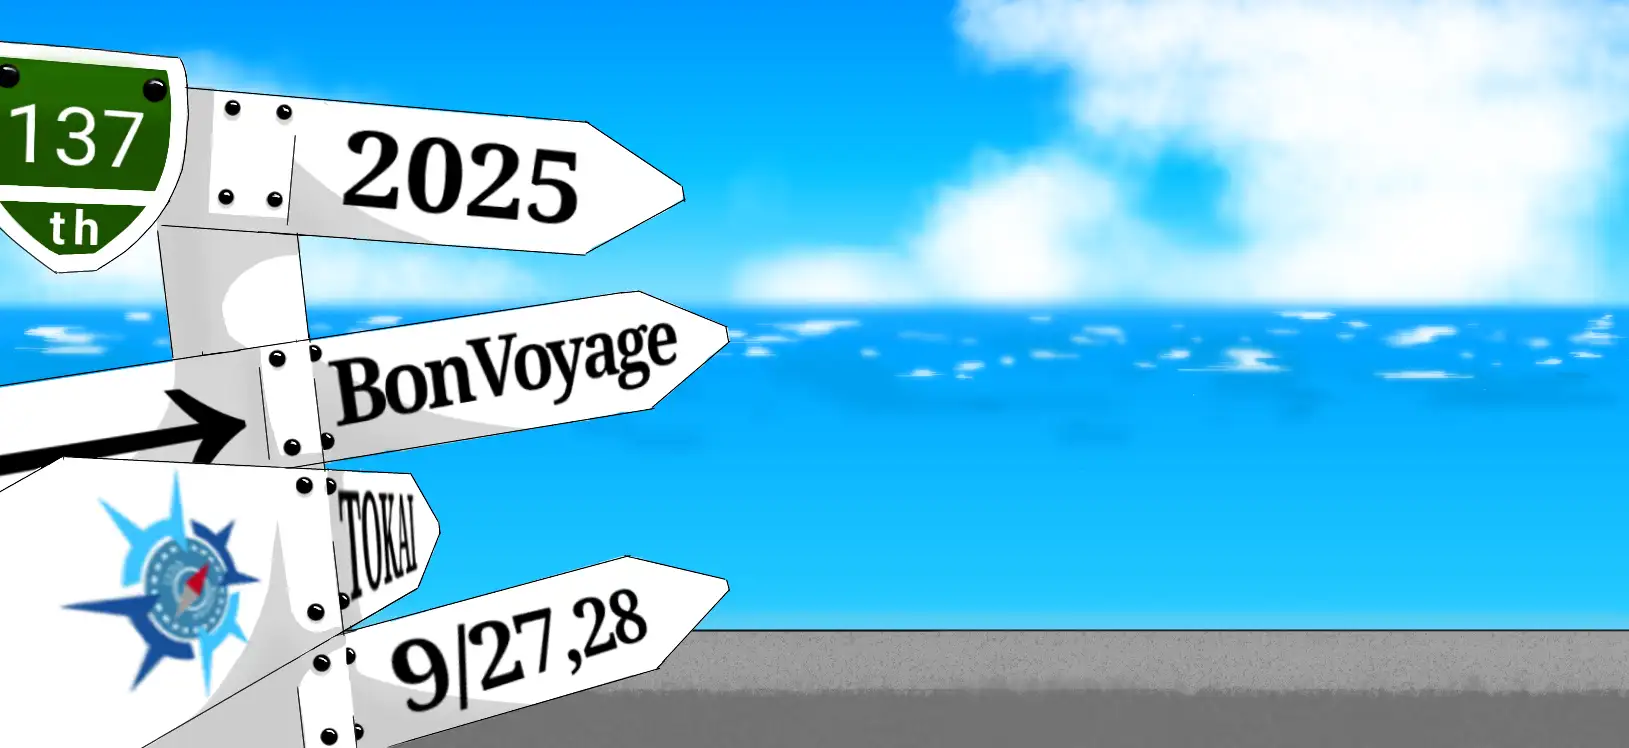
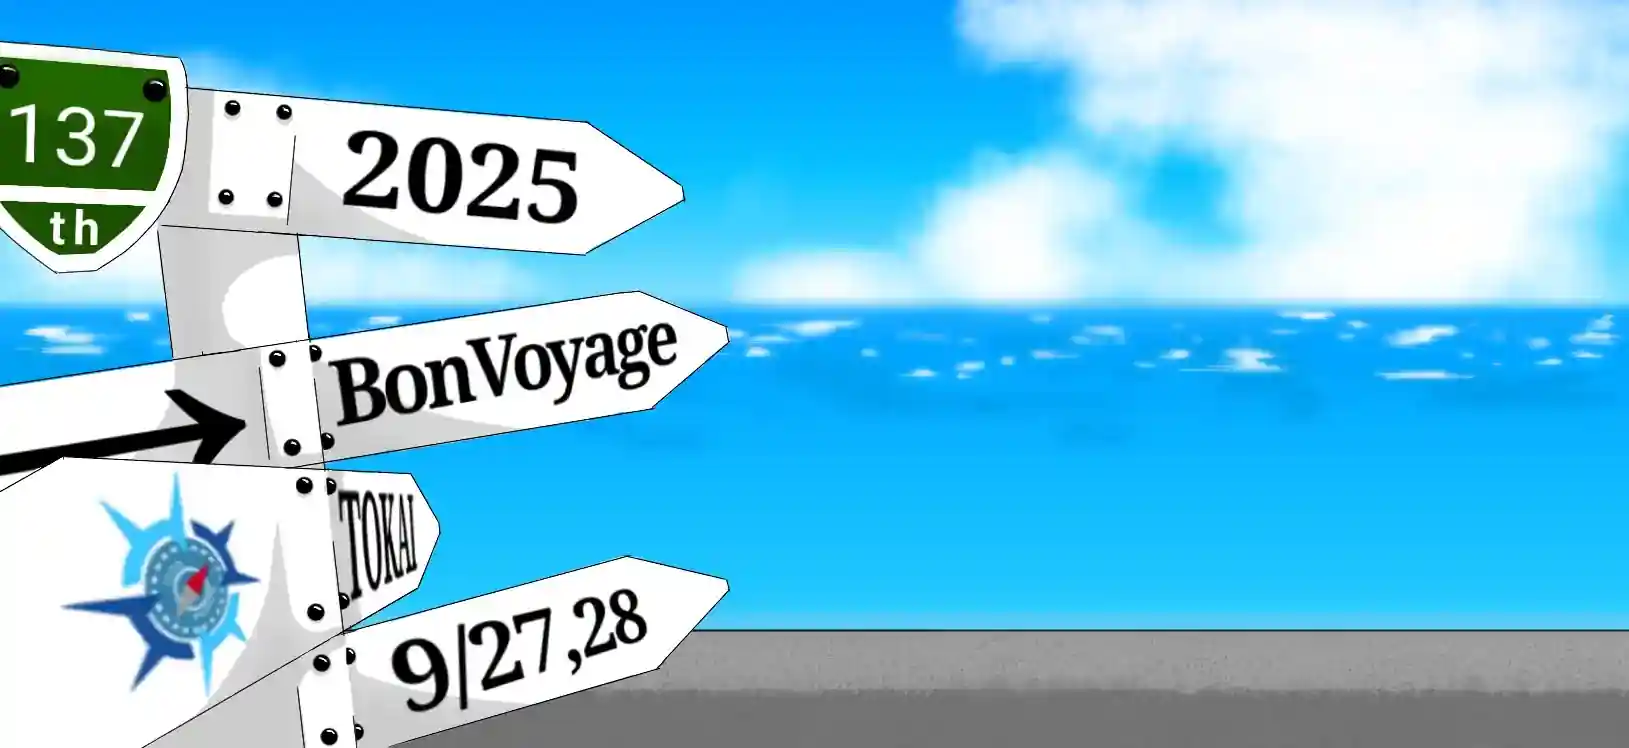
indexの写真圧縮

diff --git a/kinensai-137th/index.html b/kinensai-137th/index.html
@@ -590,14 +590,14 @@
                     </div>
                     <div class="attention-center">
                         <div class="one-attention">
-                            <img src="assets/pictures/pages/home/no-parking.png" alt="Pなし">
+                            <img src="assets/pictures/pages/home/no-parking.webp" alt="Pなし">
                             <div class="attention-detail">
                                 <h2>駐車場はございません</h2>
                                 <h3>ご来場には公共交通機関を<span class="media-spacer"></span>ご利用ください。</h3>
                             </div>
                         </div>
                         <div class="one-attention">
-                            <img src="assets/pictures/pages/home/slipback.png" alt="スリッパ">
+                            <img src="assets/pictures/pages/home/slipback.webp" alt="スリッパ">
                             <div class="attention-detail">
                                 <h2>スリッパをご持参ください</h2>
                                 <h3>当校でのスリッパの貸し出しには<span class="media-spacer"></span>限りがあります。</h3>
@@ -674,17 +674,17 @@
                             <div class="slider">
                                 <div class="slide">
                                     <figure>
-                                        <img class="photo1" src="assets/pictures/pages/home/slide1A.JPG" alt="Slide 1">
+                                        <img class="photo1" src="assets/pictures/pages/home/slide1A.webp" alt="Slide 1">
                                     </figure>
                                 </div>
                                 <div class="slide">
                                     <figure>
-                                        <img class="photo2" src="assets/pictures/pages/home/slide1B.JPG" alt="Slide 2">
+                                        <img class="photo2" src="assets/pictures/pages/home/slide1B.webp" alt="Slide 2">
                                 </div>
                                 </figure>
                                 <div class="slide">
                                     <figure>
-                                        <img class="photo2" src="assets/pictures/pages/home/slide1C.JPG" alt="Slide 3">
+                                        <img class="photo2" src="assets/pictures/pages/home/slide1C.webp" alt="Slide 3">
                                     </figure>
                                 </div>
 
